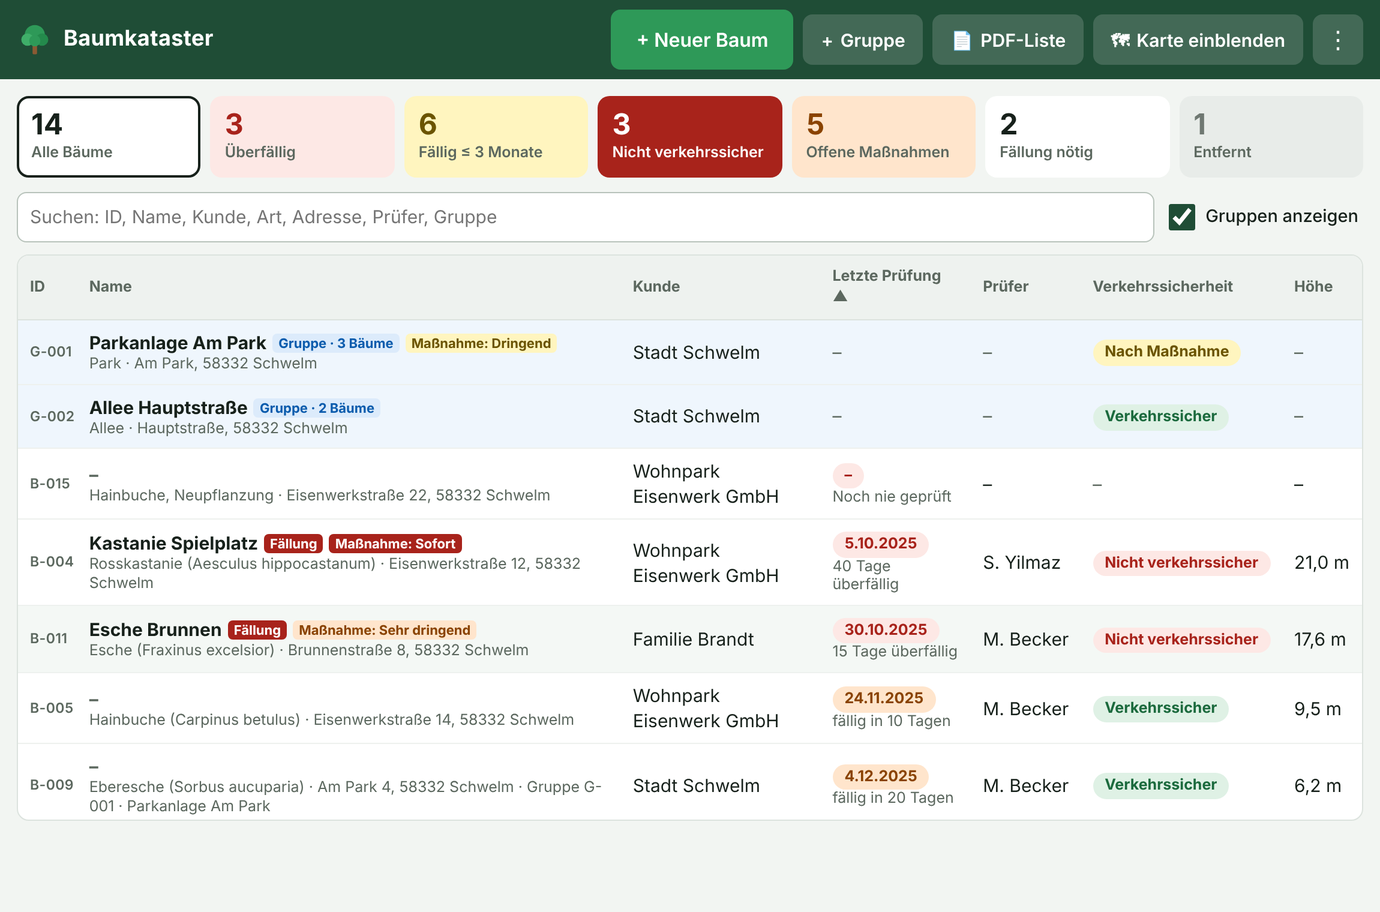
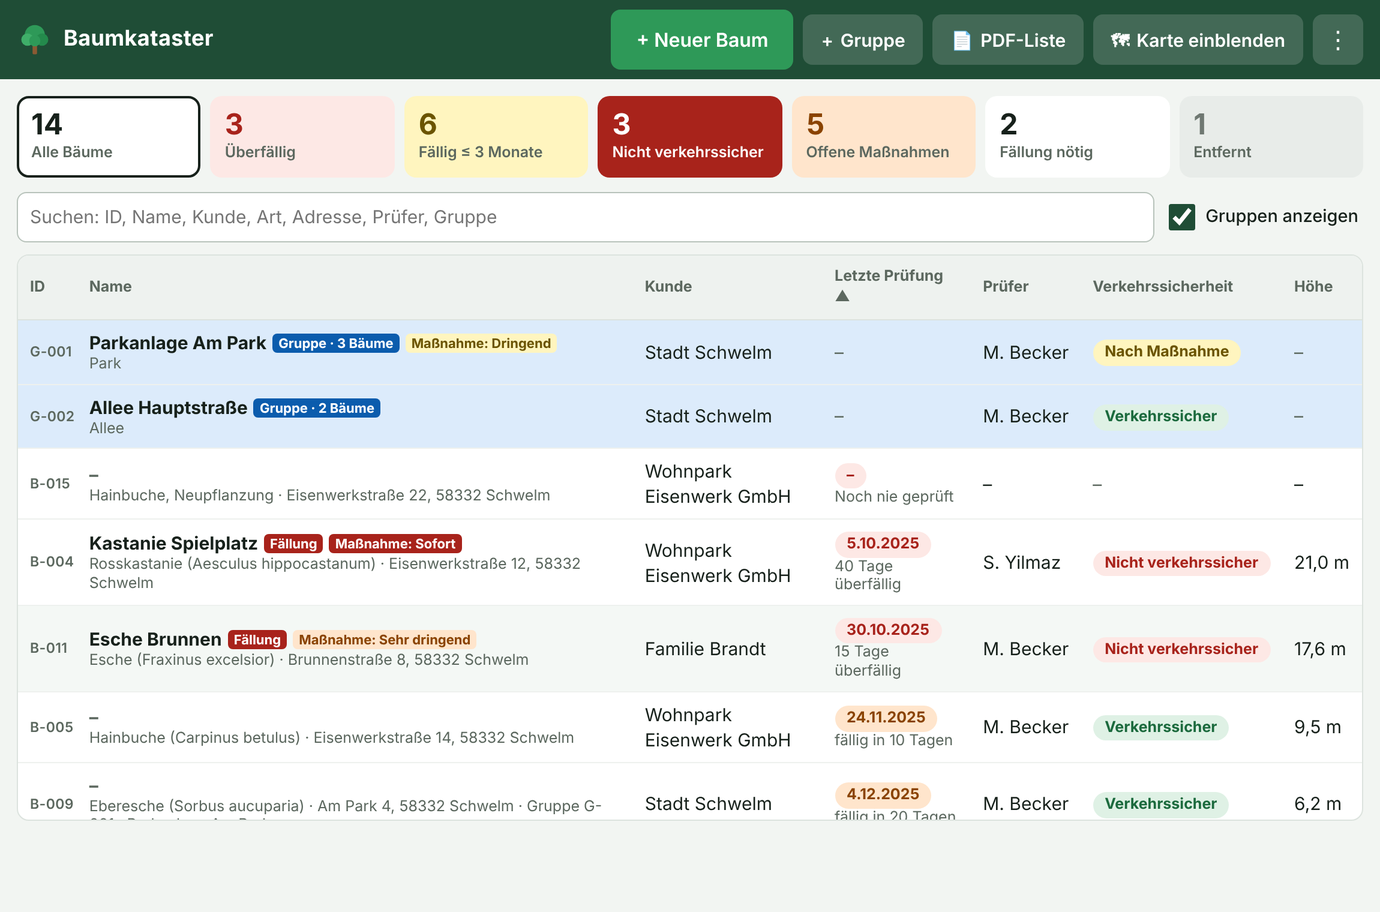
Gruppen Kreis

diff --git a/js/app.js b/js/app.js
@@ -129,7 +129,7 @@ async function homePos() {
 }
 async function goHome() { map.setView(await homePos(), 17); }
 $('bHome').onclick = goHome;
-$('bAll').onclick = () => { const v = S.objs.filter(visible); if (v.length) map.fitBounds(v.map(t => [t.lat, t.lng]), { maxZoom: 18, padding: [40, 40] }); else toast('Keine Objekte vorhanden'); };
+$('bAll').onclick = () => { const v = S.objs.filter(t => visible(t) && !istGruppe(t)); if (v.length) map.fitBounds(v.map(t => [t.lat, t.lng]), { maxZoom: 18, padding: [40, 40] }); else toast('Keine Objekte vorhanden'); };
 $('geoForm').onsubmit = async e => {
   e.preventDefault(); const q = $('geoQ').value.trim(); if (!q) return;
   const g = await geocode(q); if (!g) return toast('Adresse nicht gefunden', true);
@@ -140,20 +140,28 @@ function setMode(m) { S.mode = m; $('mP').classList.toggle('on', m === 'pruef');
 $('mP').onclick = () => setMode('pruef'); $('mR').onclick = () => setMode('risk');
 function renderLegend() {
   const it = S.mode === 'risk' ? Object.values(SICH).map(x => [x.c, x.k]) : [['grn', 'Prüfung ok'], ['yel', '≤ 3 Monate'], ['org', '≤ 1 Monat'], ['red', 'überfällig']];
-  $('legend').innerHTML = it.map(([c, t]) => `<span><i style="background:${mcol(c)}"></i>${t}</span>`).join('') + (S.gruppen && S.objs.some(istGruppe) ? `<span><i style="background:${cssVar('--blu')};border-radius:3px"></i>Gruppe</span>` : '');
+  $('legend').innerHTML = it.map(([c, t]) => `<span><i style="background:${mcol(c)}"></i>${t}</span>`).join('') + (S.gruppen && S.objs.some(istGruppe) ? `<span><i style="background:color-mix(in srgb,${cssVar('--blu')} 18%,transparent);border:2px dashed ${cssVar('--blu')};box-sizing:border-box"></i>Gruppe</span>` : '');
 }
 function mStyle(t) {
-  if (istGruppe(t)) { const on = S.sel && S.sel.id === t.id; return { radius: on ? 15 : 12, color: on ? '#111' : '#fff', weight: on ? 4 : 3, fillColor: t.entfernt ? mcol('neu') : cssVar('--blu'), fillOpacity: 1 }; }
   const on = S.sel && S.sel.id === t.id, col = mcol(t.entfernt ? 'neu' : S.mode === 'risk' ? (t.letzte_pruefung ? sich(t.sicherheit).c : 'neu') : status(t).k);
   return { radius: on ? 13 : 10, color: on ? '#111' : '#fff', weight: on ? 4 : 2, fillColor: col, fillOpacity: 1 };
 }
 function renderMarkers() {
   if (!layer) return; layer.clearLayers(); markers.clear();
-  S.objs.filter(visible).forEach(t => {
-    const m = L.circleMarker([t.lat, t.lng], mStyle(t)).bindTooltip(`${istGruppe(t) ? 'Gruppe ' : ''}${esc(t.kennung)}${t.name !== t.kennung ? ' · ' + esc(t.name) : ''}${t.kunde ? ' · ' + esc(t.kunde) : ''}${t.entfernt ? ' (entfernt)' : ''}`).on('click', ev => { L.DomEvent.stopPropagation(ev); if (S.tool) return mapClick(ev.latlng); select(t.id); });
+  const vis = S.objs.filter(visible), klick = t => ev => { L.DomEvent.stopPropagation(ev); if (S.tool) return mapClick(ev.latlng); select(t.id); };
+  // Gruppen zuerst (liegen unter den Bäumen): Kreis um alle Bäume der Gruppe, passt sich automatisch an
+  vis.filter(istGruppe).forEach(g => {
+    const k = gruppenKreis(g); if (!k) return;
+    const on = S.sel && S.sel.id === g.id, col = g.entfernt ? mcol('neu') : cssVar('--blu');
+    const c = L.circle(k.mitte, { radius: k.radius, color: col, weight: on ? 4 : 2, dashArray: on ? null : '6 6', fillColor: col, fillOpacity: on ? .18 : .1 })
+      .bindTooltip(`Gruppe ${esc(gLabel(g))} · ${nBaeume(k.n)}${g.kunde ? ' · ' + esc(g.kunde) : ''}`, { sticky: true }).on('click', klick(g));
+    c.addTo(layer); markers.set(g.id, c);
+  });
+  vis.filter(t => !istGruppe(t)).forEach(t => {
+    const m = L.circleMarker([t.lat, t.lng], mStyle(t)).bindTooltip(`${esc(t.kennung)}${t.name !== t.kennung ? ' · ' + esc(t.name) : ''}${t.kunde ? ' · ' + esc(t.kunde) : ''}${t.entfernt ? ' (entfernt)' : ''}`).on('click', klick(t));
     m.addTo(layer); markers.set(t.id, m);
   });
-  if (S.sel) markers.get(S.sel.id)?.bringToFront();
+  if (S.sel && !istGruppe(S.sel)) markers.get(S.sel.id)?.bringToFront();
 }
 
 // ===== Kunden =====
@@ -221,10 +229,10 @@ function renderDash() {
     const badges = (isG ? `<span class="badge blu">Gruppe · ${nBaeume(mitglieder(t).filter(o => !o.entfernt).length)}</span>` : '') + (t.entfernt ? '<span class="badge off">Entfernt</span>' : T(t).badges(t) + (massOffen(t) ? `<span class="badge ${dring(t.dringlichkeit).c}">Maßnahme: ${dring(t.dringlichkeit).k}</span>` : ''));
     const massZeile = massOffen(t) && !t.entfernt && S.filter === 'mass' ? `<br><b>${isG ? dring(t.dringlichkeit).l : 'Maßnahme ' + massFrist(t.letzte_pruefung, t.dringlichkeit)}</b>${t.massnahmen ? ': ' + esc(t.massnahmen) : ''}` : '';
     return `<tr class="r${isG ? ' grp' : ''}${t.entfernt ? ' off' : ''}" data-id="${t.id}" tabindex="0"><td class="idc">${esc(t.kennung)}</td>
-    <td><b>${nm}</b>${badges}<small>${esc([t.art, addr(t), g && 'Gruppe ' + gLabel(g)].filter(Boolean).join(' · '))}${massZeile}</small></td>
+    <td><b>${nm}</b>${badges}<small>${esc([t.art, !isG && addr(t), g && 'Gruppe ' + gLabel(g)].filter(Boolean).join(' · '))}${massZeile}</small></td>
     <td class="hide-xs">${t.kunde ? esc(t.kunde) : dash}</td>
     <td>${isG ? dash : `<span class="chip ${st.k}">${fmtD(t.letzte_pruefung)}</span><small>${st.label}</small>`}</td>
-    <td class="hide-s nw">${isG ? dash : esc(t.pruefer || '–')}</td>
+    <td class="hide-s nw">${esc(t.pruefer || '–')}</td>
     <td>${bewertet(t) ? `<span class="chip ${t.entfernt ? 'neu' : sich(t.sicherheit).c}">${sich(t.sicherheit).k}</span>` : dash}</td>
     <td class="hide-s nw">${isG ? dash : T(t).keyFmt(T(t).keyValue(t))}</td></tr>`;
   }).join('');
@@ -267,8 +275,8 @@ async function select(id) {
   rerender(); renderMarkers();
   if (!noMap()) {
     const m = isG ? mitglieder(t) : [];
-    if (m.length) map.fitBounds(m.concat(t).map(o => [o.lat, o.lng]), { maxZoom: 18, padding: [50, 50] });      // Gruppe: alle ihre Bäume zeigen
-    else map.setView([t.lat, t.lng], Math.max(map.getZoom(), 18));
+    if (m.length) map.fitBounds(m.map(o => [o.lat, o.lng]), { maxZoom: 18, padding: [60, 60] });      // Gruppe: alle ihre Bäume zeigen
+    else if (!isG) map.setView([t.lat, t.lng], Math.max(map.getZoom(), 18));
   }
   $('panel').scrollTop = 0;
   if (mobile()) $('detail').scrollIntoView({ block: 'start' });
@@ -283,7 +291,7 @@ async function syncSel() {
 function renderHead() {
   const t = S.sel;
   $('dTitle').textContent = t.name;
-  $('dAddr').innerHTML = `<span class="idchip">${esc(t.kennung)}</span>${esc([t.art, addr(t)].filter(Boolean).join(' · '))}`;
+  $('dAddr').innerHTML = `<span class="idchip">${esc(t.kennung)}</span>${esc((istGruppe(t) ? [t.art, t.kunde] : [t.art, addr(t)]).filter(Boolean).join(' · '))}`;
 }
 function renderDetail() {
   const t = S.sel, Ty = T(t), darfLoeschen = S.admin || !S.kons.some(abgelaufen);
@@ -506,6 +514,7 @@ function openNew(typ = S.typ) {
   $('n_first').checked = true; document.querySelector('input[name=npos][value=adresse]').checked = true; $('nSave').textContent = 'Speichern';
   $('dTitleNew').textContent = Ty.neu || 'Neuer ' + Ty.label; $('n_artl').firstChild.textContent = Ty.artLabel;
   $('n_artl').hidden = isG; $('n_gartl').hidden = !isG; $('n_hw').hidden = typ !== 'baum'; $('n_firstl').hidden = isG;
+  $('n_posw').hidden = isG; $('n_ghint').hidden = !isG;            // Gruppen haben keine eigene Adresse/Position
   $('n_name').placeholder = isG ? 'z. B. Stadtpark Nord' : 'z. B. Eiche an der Einfahrt';
   $('n_hint').textContent = isG ? 'Leer lassen: Die Gruppe erhält automatisch eine ID (z. B. G-004) und wird so benannt.' : 'Leer lassen: Der Baum erhält automatisch eine ID (z. B. B-113) und wird so benannt.';
   $('dlg').showModal(); $('n_name').focus();
@@ -522,6 +531,7 @@ const readDlg = () => { const v = i => $(i).value.trim() || null, h = parseFloat
 const posGps = () => new Promise((ok, no) => navigator.geolocation ? navigator.geolocation.getCurrentPosition(p => ok([p.coords.latitude, p.coords.longitude]), no, { enableHighAccuracy: true, timeout: 15000 }) : no());
 $('nSave').onclick = async () => {
   const f = readDlg(), mode = document.querySelector('input[name=npos]:checked').value, btn = $('nSave');
+  if (f.typ === 'gruppe') { btn.disabled = true; try { await insertObject(f, await homePos(), 'karte'); } finally { btn.disabled = false; } return; }      // Position der Gruppe ergibt sich aus ihren Bäumen
   if (mode === 'karte') { S.draft = f; $('dlg').close(); setTool('add'); return; }
   btn.disabled = true;
   try {
@@ -537,13 +547,13 @@ $('nSave').onclick = async () => {
 };
 async function insertObject(f, ll, src) {
   const typ = f.typ || S.typ, Ty = TYPES[typ];
-  if (src !== 'adresse' && !f.strasse && !f.plz && !f.stadt) {       // Adresse zur Position ergänzen
+  if (typ !== 'gruppe' && src !== 'adresse' && !f.strasse && !f.plz && !f.stadt) {       // Adresse zur Position ergänzen
     try {
       const a = (await (await fetch(`https://nominatim.openstreetmap.org/reverse?format=json&addressdetails=1&accept-language=de&lat=${ll[0]}&lon=${ll[1]}`)).json()).address || {};
       f.strasse = a.road || null; f.hausnummer = a.house_number || null; f.plz = a.postcode || null; f.stadt = a.city || a.town || a.village || null;
     } catch (e) { /* Adresse bleibt leer */ }
   }
-  const { data, error } = await sb.from('objekte').insert({ typ, name: f.name, kunde: f.kunde, art: f.art, strasse: f.strasse, hausnummer: f.hausnummer, plz: f.plz, stadt: f.stadt, lat: ll[0], lng: ll[1], pos_quelle: src }).select().single();
+  const { data, error } = await sb.from('objekte').insert({ typ, name: f.name, kunde: f.kunde, pruefer: typ === 'gruppe' ? meName() : undefined, art: f.art, strasse: f.strasse, hausnummer: f.hausnummer, plz: f.plz, stadt: f.stadt, lat: ll[0], lng: ll[1], pos_quelle: src }).select().single();
   if (error) return toast('Anlegen fehlgeschlagen: ' + error.message, true);
   if (f.first) {
     const daten = { ...Ty.defaultDaten(), ...(f.hoehe != null ? { hoehe: f.hoehe } : {}) };

diff --git a/js/gruppe.js b/js/gruppe.js
@@ -17,6 +17,13 @@ const gruppeVon = t => istGruppe(t) ? null : objById(t.gruppe_id);
 const mitglieder = g => S.objs.filter(o => o.gruppe_id === g.id && !istGruppe(o));
 const gruppen = () => S.objs.filter(o => istGruppe(o) && !o.entfernt);
 const gLabel = g => g.name && g.name !== g.kennung ? `${g.kennung} · ${g.name}` : g.kennung;
+// Kreis um alle (nicht entfernten) Bäume einer Gruppe: Mittelpunkt und Radius in Metern. Ohne Bäume gibt es keinen Kreis.
+function gruppenKreis(g) {
+  const m = mitglieder(g).filter(o => !o.entfernt && typeof o.lat === 'number' && typeof o.lng === 'number'); if (!m.length) return null;
+  const lat = m.map(o => o.lat), lng = m.map(o => o.lng), mitte = [(Math.min(...lat) + Math.max(...lat)) / 2, (Math.min(...lng) + Math.max(...lng)) / 2];
+  const rad = x => x * Math.PI / 180, dist = o => { const dy = rad(o.lat - mitte[0]) * 6371000, dx = rad(o.lng - mitte[1]) * 6371000 * Math.cos(rad(mitte[0])); return Math.hypot(dx, dy); };
+  return { mitte, radius: Math.max(...m.map(dist)) * 1.15 + 12, n: m.length };            // etwas Rand, damit die Punkte im Kreis liegen
+}
 const nBaeume = n => `${n} ${n === 1 ? 'Baum' : 'Bäume'}`;
 const artSelect = (v, attr) => `<select ${attr}><option value="">– bitte wählen –</option>${[...new Set(GRUPPEN_ARTEN.concat(v ? [v] : []))].map(a => `<option ${a === v ? 'selected' : ''}>${esc(a)}</option>`).join('')}</select>`;
 $('n_gart').innerHTML = artSelect('', '').replace(/^<select >|<\/select>$/g, '');
@@ -48,12 +55,10 @@ function renderGruppe() {
   <div id="facts"></div>
   <section class="card"><h3 id="gCount"></h3><div id="gList"></div></section>
   <section class="card"><h3>Angaben zur Gruppe</h3><div id="gForm"></div>
-    <p style="margin:8px 0 0"><small id="posInfo"></small></p>
-    <div class="foot"><button class="btn sec" id="bMove">Position auf Karte neu setzen</button><button class="btn sec" id="bGeoAddr">Position aus Adresse ermitteln</button>
-      <button class="btn sec" id="bEnt">${g.entfernt ? 'Wieder als aktiv führen' : 'Als entfernt markieren'}</button><button class="btn dan" id="bDel">Gruppe löschen</button></div>
-    <span class="hint">Beim Löschen der Gruppe bleiben die Bäume erhalten, sie gehören dann nur zu keiner Gruppe mehr.</span>
+    <div class="foot"><button class="btn sec" id="bEnt">${g.entfernt ? 'Wieder als aktiv führen' : 'Als entfernt markieren'}</button><button class="btn dan" id="bDel">Gruppe löschen</button></div>
+    <span class="hint">Auf der Karte erscheint die Gruppe als Kreis um ihre Bäume. Beim Löschen der Gruppe bleiben die Bäume erhalten, sie gehören dann nur zu keiner Gruppe mehr.</span>
   </section>`;
-  renderHead(); renderGFacts(); renderGList(); renderGForm(); renderPos();
+  renderHead(); renderGFacts(); renderGList(); renderGForm();
 }
 function renderGFacts() {
   const g = S.sel, m = mitglieder(g).filter(o => !o.entfernt), offen = massOffen(g), fl = [];
@@ -85,12 +90,12 @@ function renderGForm() {
   $('gForm').innerHTML = `<div class="g2">
       <label>ID<input type="text" value="${esc(g.kennung)}" readonly></label>${field('Name / Bezeichnung', 't', 'name', g.name)}
       <label>Art${artSelect(g.art, A('t', 'art'))}</label>${field('Kunde', 't', 'kunde', g.kunde, 'text', 'list="kunden" autocomplete="off" placeholder="Tippen oder auswählen"')}
+      ${field('Prüfer', 't', 'pruefer', g.pruefer)}
     </div>
     <h4>Verkehrssicherheit</h4>${segC('t', 'sicherheit', g.sicherheit, Object.entries(SICH).map(([v, d]) => [v, d.l, d.c]))}
     ${massForm(g, 't')}
     ${area('Maßnahmen Beschreibung', 't', 'massnahmen', g.massnahmen)}
-    ${area('Anmerkungen', 't', 'anmerkungen', g.anmerkungen)}
-    <h4>Lage</h4><div class="g2">${field('Straße', 't', 'strasse', g.strasse)}${field('Hausnr.', 't', 'hausnummer', g.hausnummer)}${field('PLZ', 't', 'plz', g.plz)}${field('Stadt', 't', 'stadt', g.stadt)}</div>`;
+    ${area('Anmerkungen', 't', 'anmerkungen', g.anmerkungen)}`;
 }
 
 // ----- Dialog: mehrere Bäume auf einmal hinzufügen -----
@@ -119,4 +124,5 @@ $('gaSave').onclick = async () => {
   if (error) { toast('Hinzufügen fehlgeschlagen: ' + error.message, true); gaRender(); return; }
   S.objs.forEach(o => { if (GA.sel.has(o.id)) o.gruppe_id = g.id; });
   $('dlgG').close(); renderGFacts(); renderGList(); renderMarkers(); toast(`${nBaeume(ids.length)} hinzugefügt`);
+  const m = mitglieder(g); if (!noMap() && m.length) map.fitBounds(m.map(o => [o.lat, o.lng]), { maxZoom: 18, padding: [60, 60] });
 };

diff --git a/index.html b/index.html
@@ -8,8 +8,8 @@
 <link rel="stylesheet" href="https://cdnjs.cloudflare.com/ajax/libs/leaflet/1.9.4/leaflet.min.css">
 <!-- Nach jeder Änderung an CSS- oder JS-Dateien die Versionsangabe ?v=… in dieser Datei überall hochzählen,
      damit alle Geräte die neuen Dateien laden (sonst mischt der Browser alte und neue Dateien). -->
-<link rel="stylesheet" href="css/theme.css?v=2026-11-14f">
-<link rel="stylesheet" href="css/app.css?v=2026-11-14f">
+<link rel="stylesheet" href="css/theme.css?v=2026-11-14g">
+<link rel="stylesheet" href="css/app.css?v=2026-11-14g">
 </head>
 <body>
 
@@ -73,7 +73,9 @@
     <label id="n_hw">Baumhöhe (m)
       <div class="num"><input id="n_h" type="number" step="0.1" min="0" inputmode="decimal"><span class="ar"><button type="button" data-nstep="0.1" aria-label="10 cm höher">▲</button><button type="button" data-nstep="-0.1" aria-label="10 cm niedriger">▼</button></span></div>
     </label>
-    <span></span>
+  </div>
+  <div id="n_posw">
+  <div class="g2">
     <label>Straße<input id="n_str" type="text"></label>
     <label>Hausnr.<input id="n_nr" type="text"></label>
     <label>PLZ<input id="n_plz" type="text"></label>
@@ -86,6 +88,8 @@
     <label><input type="radio" name="npos" value="gps"><span>Mein Standort</span></label>
   </div>
   <span class="hint">Die genaue Position lässt sich später jederzeit auf der Karte neu setzen.</span>
+  </div>
+  <span class="hint" id="n_ghint" hidden>Die Gruppe braucht keine eigene Adresse: Auf der Karte erscheint sie als Kreis um ihre Bäume. Nach dem Speichern kannst du die Bäume hinzufügen.</span>
   <label class="ck" style="margin-top:6px" id="n_firstl"><input id="n_first" type="checkbox" checked>Erste Prüfung gleich anlegen</label>
   <div class="acts" style="margin-bottom:0"><button class="btn pri" id="nSave">Weiter</button><button class="btn sec" id="nCancel">Abbrechen</button></div>
 </dialog>
@@ -119,11 +123,11 @@
 <script src="https://cdnjs.cloudflare.com/ajax/libs/leaflet/1.9.4/leaflet.min.js"></script>
 <script src="https://cdn.jsdelivr.net/npm/@supabase/supabase-js@2.45.4/dist/umd/supabase.min.js"></script>
 <script src="https://cdnjs.cloudflare.com/ajax/libs/jspdf/2.5.1/jspdf.umd.min.js"></script>
-<script src="config.js?v=2026-11-14f"></script>
-<script src="js/basis.js?v=2026-11-14f"></script>
-<script src="js/baum.js?v=2026-11-14f"></script>
-<script src="js/gruppe.js?v=2026-11-14f"></script>
-<script src="js/pdf.js?v=2026-11-14f"></script>
-<script src="js/app.js?v=2026-11-14f"></script>
+<script src="config.js?v=2026-11-14g"></script>
+<script src="js/basis.js?v=2026-11-14g"></script>
+<script src="js/baum.js?v=2026-11-14g"></script>
+<script src="js/gruppe.js?v=2026-11-14g"></script>
+<script src="js/pdf.js?v=2026-11-14g"></script>
+<script src="js/app.js?v=2026-11-14g"></script>
 </body>
 </html>

diff --git a/js/mock.js b/js/mock.js
@@ -2,7 +2,7 @@
 // Bildet die Datenbank-Automatik aus setup.sql nach: ID-Vergabe, Übernahme der neuesten Prüfung, 12-Stunden-Sperre, Admin-Recht.
 // Anmeldung: admin / admin (Admin) oder pruefer / pruefer (normaler Benutzer).
 function createMock() {
-  const KEY = 'bk_test_db_v6', SESS = 'bk_test_user', listeners = [];
+  const KEY = 'bk_test_db_v7', SESS = 'bk_test_user', listeners = [];
   const USERS = { admin: { pw: 'admin', name: 'Admin', role: 'admin' }, pruefer: { pw: 'pruefer', name: 'P. Prüfer', role: null } };
   const me = () => USERS[localStorage.getItem(SESS)] || null, isAdmin = () => !!me() && me().role === 'admin';
   const gesperrt = k => !isAdmin() && Date.now() - new Date(k.created_at).getTime() > 12 * 36e5;
@@ -77,7 +77,7 @@ function createMock() {
       sync(t.id);
     });
     // Beispiel-Gruppen: Bäume „Am Park“ und die Allee in der Hauptstraße
-    const grp = (name, art, str, kunde, extra) => { const m = d.objekte.filter(o => o.strasse === str), g = objDef({ typ: 'gruppe', name, art, kunde, strasse: str, plz: '58332', stadt: 'Schwelm', lat: m.reduce((a, o) => a + o.lat, 0) / m.length + 0.00012, lng: m.reduce((a, o) => a + o.lng, 0) / m.length, pos_quelle: 'karte', ...extra }); kennung(g); d.objekte.push(g); m.forEach(o => { o.gruppe_id = g.id; }); };
+    const grp = (name, art, str, kunde, extra) => { const m = d.objekte.filter(o => o.strasse === str), g = objDef({ typ: 'gruppe', name, art, kunde, lat: m.reduce((a, o) => a + o.lat, 0) / m.length + 0.00012, lng: m.reduce((a, o) => a + o.lng, 0) / m.length, pos_quelle: 'karte', pruefer: P[0], ...extra }); kennung(g); d.objekte.push(g); m.forEach(o => { o.gruppe_id = g.id; }); };
     grp('Parkanlage Am Park', 'Park', 'Am Park', KD[1], { sicherheit: 'nach_massnahme', dringlichkeit: 'hoch', massnahmen: 'Wege freischneiden, Totholz im Bestand entfernen', anmerkungen: 'Zugang über das Tor an der Nordseite' });
     grp('Allee Hauptstraße', 'Allee', 'Hauptstraße', KD[1], {});
     seeding = false;
@@ -161,4 +161,4 @@ function createMock() {
     }
   };
 }
-if ($('bReset')) $('bReset').onclick = () => { if (confirm('Alle Testdaten verwerfen und die Beispieldaten neu laden?')) { localStorage.removeItem('bk_test_db_v6'); location.reload(); } };
+if ($('bReset')) $('bReset').onclick = () => { if (confirm('Alle Testdaten verwerfen und die Beispieldaten neu laden?')) { localStorage.removeItem('bk_test_db_v7'); location.reload(); } };

diff --git a/css/app.css b/css/app.css
@@ -104,8 +104,9 @@ th button:hover{color:var(--ink)}
 td{padding:8px 10px;border-bottom:1px solid #eef1ee;vertical-align:middle}
 tr.r{cursor:pointer}
 tr.r:hover td{background:#f4f8f5}
-tr.r.grp td{background:color-mix(in srgb,var(--blu-bg) 45%,var(--card))}
-tr.r.grp:hover td{background:color-mix(in srgb,var(--blu-bg) 75%,var(--card))}
+tr.r.grp td{background:var(--blu-bg)}
+tr.r.grp:hover td{background:color-mix(in srgb,var(--blu-bg) 86%,var(--blu))}
+tr.r.grp .badge.blu{background:var(--blu);color:#fff}
 tr.r.off td{background:var(--off-bg);color:var(--mute)}
 tr.r.off:hover td{background:#dfe4e0}
 td small{display:block;line-height:1.25}
